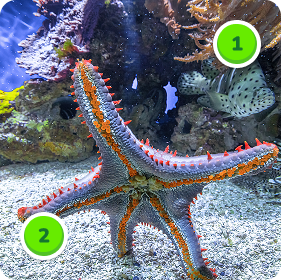
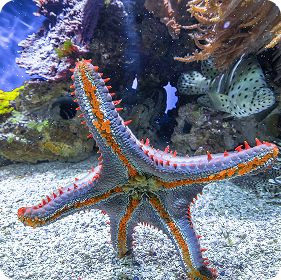
refactor(components): update modal content and responsive styles
- Replace complete metamorphosis text with incomplete metamorphosis description
- Adjust image handling and responsive widths in desidratacao topicos
- Simplify EquinodermosModal by removing unused BotaoRedondo component
- Improve image and video container styling consistency

Changed region(s): [[0.7402, 0.0571, 0.9395, 0.2571], [0.0569, 0.7429, 0.2562, 0.9429]]

diff --git a/src/app/artropodes/components/EquinodermosModal.tsx b/src/app/artropodes/components/EquinodermosModal.tsx
@@ -2,7 +2,6 @@
 
 import React from "react";
 import Image from "next/image";
-import BotaoRedondo from "./BotaoRedondo";
 import VideoPlayer from "./VideoPlayer";
 import ModalHeader from "./ModalHeader";
 
@@ -36,7 +35,6 @@ const EquinodermosModal: React.FC<EquinodermosModalProps> = ({ isOpen, onClose, 
 
         {/* Content container */}
         <div className="flex flex-col items-center h-full px-10 pt-[80px] pb-10 gap-3 overflow-y-auto pl-[50px]">
-
           {/* Content block */}
           <div className="w-[313px] bg-[#41AA98] border-4 border-white rounded-[16px] flex flex-col justify-end items-start gap-4 relative pt-0 pr-[5px] pb-[7px] pl-0">
             <div className="bg-[#EBF3EE] border-2 border-[#1C4F46] rounded-[16px] z-0 flex-none order-0 w-full p-[14px_10px]">
@@ -45,50 +43,38 @@ const EquinodermosModal: React.FC<EquinodermosModalProps> = ({ isOpen, onClose, 
 
                 {/* Imagem principal do topo */}
                 <div className="w-full flex justify-center">
-                  <div className="flex flex-col justify-center items-center p-2 gap-2 w-[281px] h-[280px] rounded-[16px] relative bg-[url('/assets/images/artropodes/equinodermos-modal-1.png')] bg-cover bg-center">
-                  </div>
+                  <div className="flex flex-col justify-center items-center p-2 gap-2 w-[281px] h-[280px] rounded-[16px] relative bg-[url('/assets/images/artropodes/equinodermos-modal-1.png')] bg-cover bg-center"></div>
                 </div>
-                
+
                 {/* Primeira seção com botão 1 */}
                 <div className="w-full flex flex-col gap-4">
                   <div className="flex items-start gap-2">
-                    <BotaoRedondo onClick={() => handleBotaoClick("1")} numero="1" />
-                    <p className="text-[#1C4F46] font-nunito font-semibold text-[16px] leading-[1.2] flex-1">
-                      Apresentam espinhos na superfície do corpo e são exclusivamente marinhos.
-                    </p>
+                    <p className="text-[#1C4F46] font-nunito font-semibold text-[16px] leading-[1.2] flex-1">Apresentam espinhos na superfície do corpo e são exclusivamente marinhos.</p>
                   </div>
                 </div>
 
                 {/* Segunda seção - Botão 2 + Texto */}
                 <div className="w-full flex flex-col gap-4">
                   <div className="flex items-start gap-2">
-                    <BotaoRedondo onClick={() => handleBotaoClick("2")} numero="2" />
-                    <p className="text-[#1C4F46] font-nunito font-semibold text-[16px] leading-[1.2] flex-1">
-                      São representados por estrelas-do-mar, serpentes-do-mar, ouriços-do-mar, bolachas da praia, lírio-do-mar e pepinos-do-mar. Apresentam grande capacidade de regeneração. Uma estrela-do-mar, por exemplo, pode regenerar braços perdidos.
-                    </p>
+                    <p className="text-[#1C4F46] font-nunito font-semibold text-[16px] leading-[1.2] flex-1">São representados por estrelas-do-mar, serpentes-do-mar, ouriços-do-mar, bolachas da praia, lírio-do-mar e pepinos-do-mar. Apresentam grande capacidade de regeneração. Uma estrela-do-mar, por exemplo, pode regenerar braços perdidos.</p>
                   </div>
                 </div>
 
                 {/* Terceira seção - Imagem */}
                 <div className="w-full flex justify-center">
-                  <div className="flex flex-col justify-center items-center p-2 gap-2 w-[281px] h-[160px] rounded-[16px] relative bg-[url('/assets/images/artropodes/equinodermos-modal-2.png')] bg-cover bg-center">
-                  </div>
+                  <div className="flex flex-col justify-center items-center p-2 gap-2 w-[281px] h-[160px] rounded-[16px] relative bg-[url('/assets/images/artropodes/equinodermos-modal-2.png')] bg-cover bg-center"></div>
                 </div>
 
                 {/* Quarta seção - Botão 3 + Texto */}
                 <div className="w-full flex flex-col gap-4">
                   <div className="flex items-start gap-2">
-                    <BotaoRedondo onClick={() => handleBotaoClick("3")} numero="3" />
-                    <p className="text-[#1C4F46] font-nunito font-semibold text-[16px] leading-[1.2] flex-1">
-                      Apresentam um endoesqueleto calcário e um sistema exclusivo denominado ambulacrário, importante para a locomoção do animal. Dele se projetam os pés ambulacrários bem visíveis na estrela-do-mar.
-                    </p>
+                    <p className="text-[#1C4F46] font-nunito font-semibold text-[16px] leading-[1.2] flex-1">Apresentam um endoesqueleto calcário e um sistema exclusivo denominado ambulacrário, importante para a locomoção do animal. Dele se projetam os pés ambulacrários bem visíveis na estrela-do-mar.</p>
                   </div>
                 </div>
 
                 {/* Quinta seção - Imagem */}
                 <div className="w-full flex justify-center">
-                  <div
-                    className="flex flex-col justify-center items-center p-2 gap-2 w-[281px] h-[160px] rounded-[16px] relative">
+                  <div className="flex flex-col justify-center items-center p-2 gap-2 w-[281px] h-[160px] rounded-[16px] relative">
                     <VideoPlayer src="https://player.vimeo.com/video/1100711946?h=a8ff67b424&badge=0&autopause=0&player_id=0&app_id=58479" />
                   </div>
                 </div>
@@ -99,10 +85,7 @@ const EquinodermosModal: React.FC<EquinodermosModalProps> = ({ isOpen, onClose, 
           {/* Bottom button */}
           <div className="w-full mt-6 max-w-[313px] flex justify-center cursor-pointer">
             <button onClick={onClose} className="w-full bg-[#01668E] border-4 border-white rounded-full py-3 px-6 shadow-[0px_2px_0px_0px_rgba(0,0,0,0.15)] relative overflow-hidden cursor-pointer">
-              <div
-                className="absolute inset-0 bg-[#94E7FC] rounded-full top-0" 
-                style={{left: "1.01px", width: "calc(100% - 3px)", height: "calc(100% - 4px)"}}
-              />
+              <div className="absolute inset-0 bg-[#94E7FC] rounded-full top-0" style={{ left: "1.01px", width: "calc(100% - 3px)", height: "calc(100% - 4px)" }} />
               <span className="relative z-10 font-nunito font-black text-base leading-[1.364] tracking-[0.04em] uppercase text-center text-[#01668E]">VOLTAR</span>
             </button>
           </div>

diff --git a/src/app/desidratacao/topicos/page.tsx b/src/app/desidratacao/topicos/page.tsx
@@ -74,7 +74,7 @@ export default function DesidratacaoTopicos() {
         background: "linear-gradient(180deg, #FF69B4 0%, #FF1493 100%)",
         margin: "0 auto",
       }}>
-      <div className="w-[393px] relative">
+      <div className="w-[393px] relative lg:w-[600px]">
         {/* Overlay rosa para dar o tom correto */}
         <div
           className="absolute inset-0"
@@ -94,7 +94,7 @@ export default function DesidratacaoTopicos() {
         <div className="flex flex-col items-center h-full px-10 pt-[80px] pb-[120px] gap-[5px] overflow-hidden" style={{ paddingLeft: "50px" }}>
           {/* Tópicos Accordion */}
           {topicos.map((topico, index) => (
-            <div key={topico.id} className="w-[313px] relative">
+            <div key={topico.id} className="w-[313px] relative lg:w-[500px]">
               {/* Tópico expandido */}
               {topicoAberto === topico.id && (
                 <div className="bg-[#A03BB1] border-4 border-white rounded-[16px] flex flex-col justify-end items-start gap-4 relative mb-0 cursor-pointer hover:bg-[#8B2A9B] transition-colors" onClick={() => toggleTopico(topico.id)} style={{ padding: "0px 5px 7px 0px" }}>
@@ -108,14 +108,14 @@ export default function DesidratacaoTopicos() {
                       </div>
 
                       {topico.id !== "produtos" && topico.id !== "sabor" && topico.imagem && (
-                        <div className="w-full rounded-[12px] overflow-hidden">
-                          <Image src={topico.imagem} alt={topico.titulo} width={281} height={160} className="w-full h-[160px] object-cover" />
+                        <div className="w-full h-full rounded-[12px] overflow-hidden">
+                          <Image src={topico.imagem} alt={topico.titulo} width={0} height={0} sizes="100vw" className="w-full h-[160px] object-cover" style={{ width: "100%", height: "100%" }} />
                         </div>
                       )}
 
                       {(topico.id === "caramelizacao" || topico.id === "produtos") && topico.imagemSecundaria && (
                         <div className="w-full rounded-[12px] overflow-hidden">
-                          <Image src={topico.imagemSecundaria} alt={`${topico.titulo} - Imagem adicional`} width={281} height={160} className="w-full h-auto object-contain" />
+                          <Image src={topico.imagemSecundaria} alt={`${topico.titulo} - Imagem adicional`} width={0} height={0} sizes="100vw" className="w-full h-[160px] object-cover" style={{ width: "100%", height: "100%" }} />
                         </div>
                       )}
 
@@ -125,13 +125,13 @@ export default function DesidratacaoTopicos() {
 
                       {topico.id === "produtos" && topico.imagem && (
                         <div className="w-full rounded-[12px] overflow-hidden">
-                          <Image src={topico.imagem} alt={topico.titulo} width={281} height={280} className="w-full h-[280px] object-cover" />
+                          <Image src={topico.imagem} alt={topico.titulo} width={0} height={0} sizes="100vw" className="w-full h-[160px] object-cover" style={{ width: "100%", height: "100%" }} />
                         </div>
                       )}
 
                       {topico.id === "sabor" && topico.imagem && (
                         <div className="w-full rounded-[12px] overflow-hidden">
-                          <Image src={topico.imagem} alt={topico.titulo} width={281} height={160} className="w-full h-[160px] object-cover" />
+                          <Image src={topico.imagem} alt={topico.titulo} width={0} height={0} sizes="100vw" className="w-full h-[160px] object-cover" style={{ width: "100%", height: "100%" }} />
                         </div>
                       )}
 
@@ -143,7 +143,7 @@ export default function DesidratacaoTopicos() {
 
                       {topico.id !== "caramelizacao" && topico.imagemSecundaria && (
                         <div className="w-full rounded-[12px] overflow-hidden">
-                          <Image src={topico.imagemSecundaria} alt={`${topico.titulo} - Imagem adicional`} width={281} height={160} className="w-full h-auto object-contain" />
+                          <Image src={topico.imagemSecundaria} alt={`${topico.titulo} - Imagem adicional`} width={0} height={0} sizes="100vw" className="w-full h-[160px] object-cover" style={{ width: "100%", height: "100%" }} />
                         </div>
                       )}
                     </div>

diff --git a/src/app/artropodes/components/InsetosModal.tsx b/src/app/artropodes/components/InsetosModal.tsx
@@ -142,7 +142,7 @@ const InsetosModal: React.FC<InsetosModalProps> = ({ isOpen, onClose, onHome }) 
                   </div>
 
                   <div className="flex items-start gap-2">
-                    <p className="text-[#1C4F46] font-nunito font-semibold text-[16px] leading-[1.2] flex-1">Na metamorfose completa, do ovo sai a lagarta ou larva, que forma a pupa da qual surge a fase adulta.</p>
+                    <p className="text-[#1C4F46] font-nunito font-semibold text-[16px] leading-[1.2] flex-1">Na metamorfose incompleta, do ovo sai a ninfa, que se parece com o adulto, mas não tem asas. A ninfa sofre mudas até formar o indivíduo adulto.</p>
                   </div>
                 </div>
 
